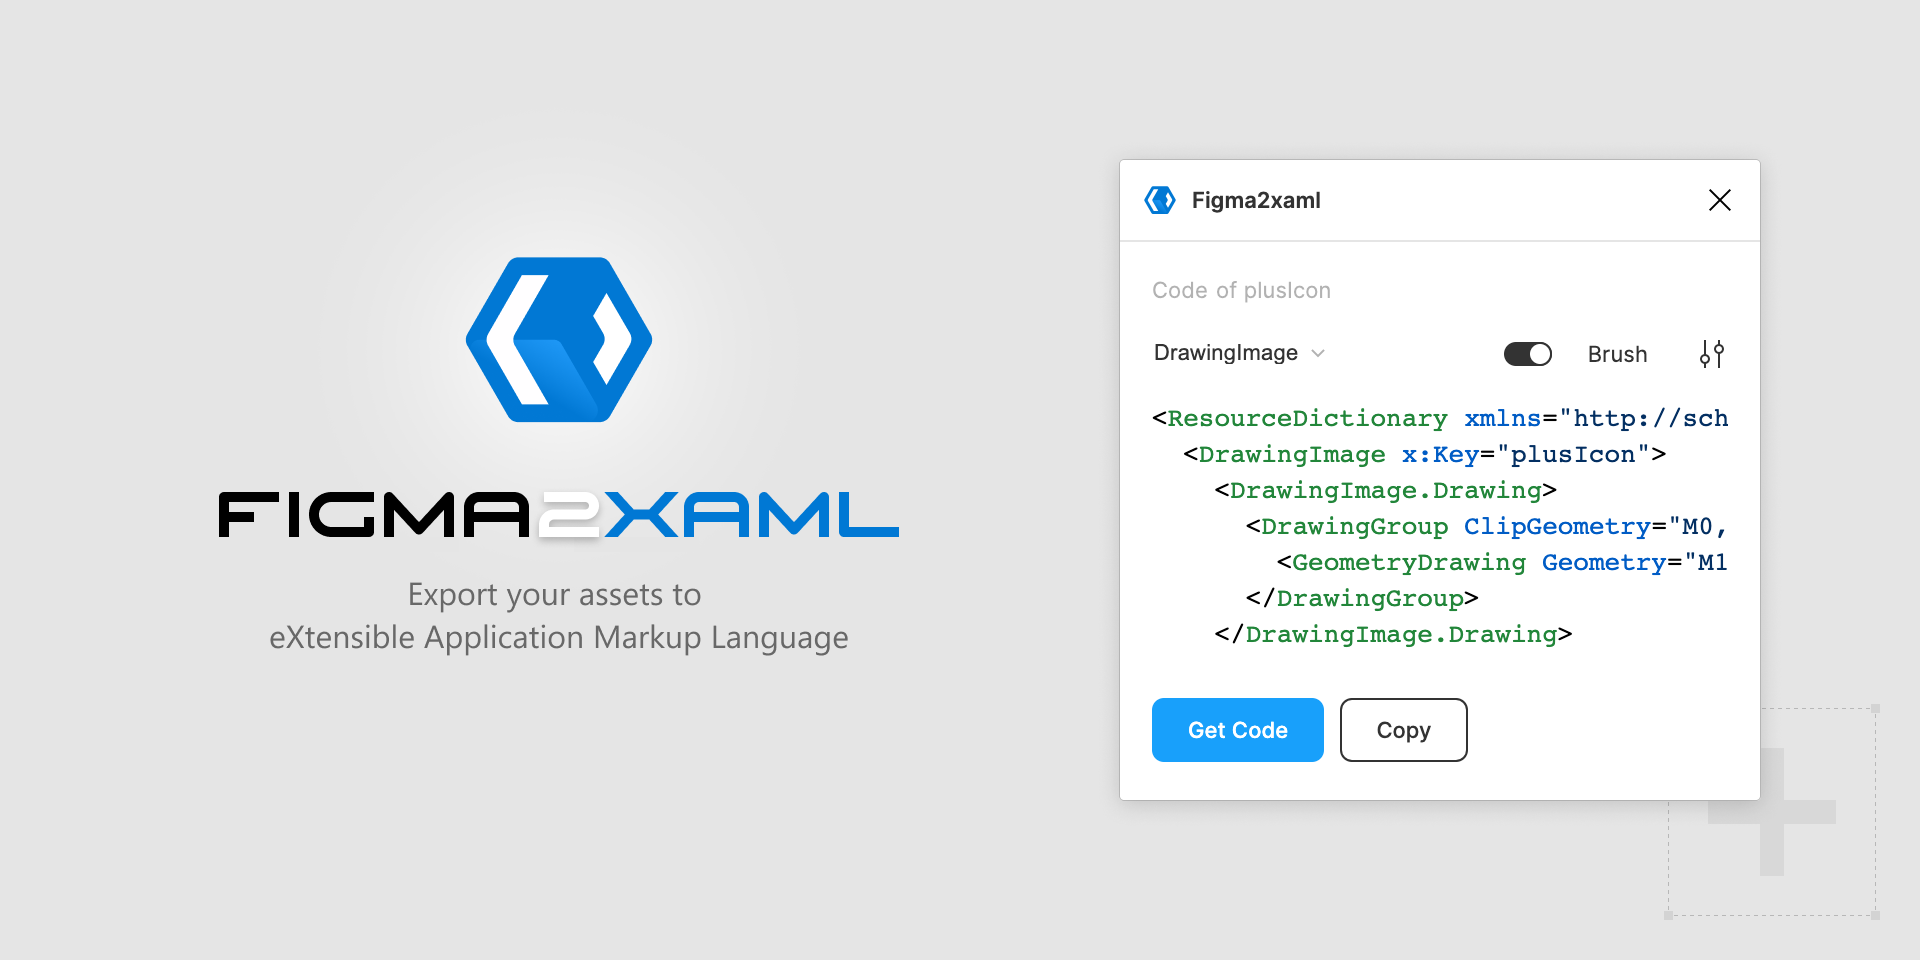
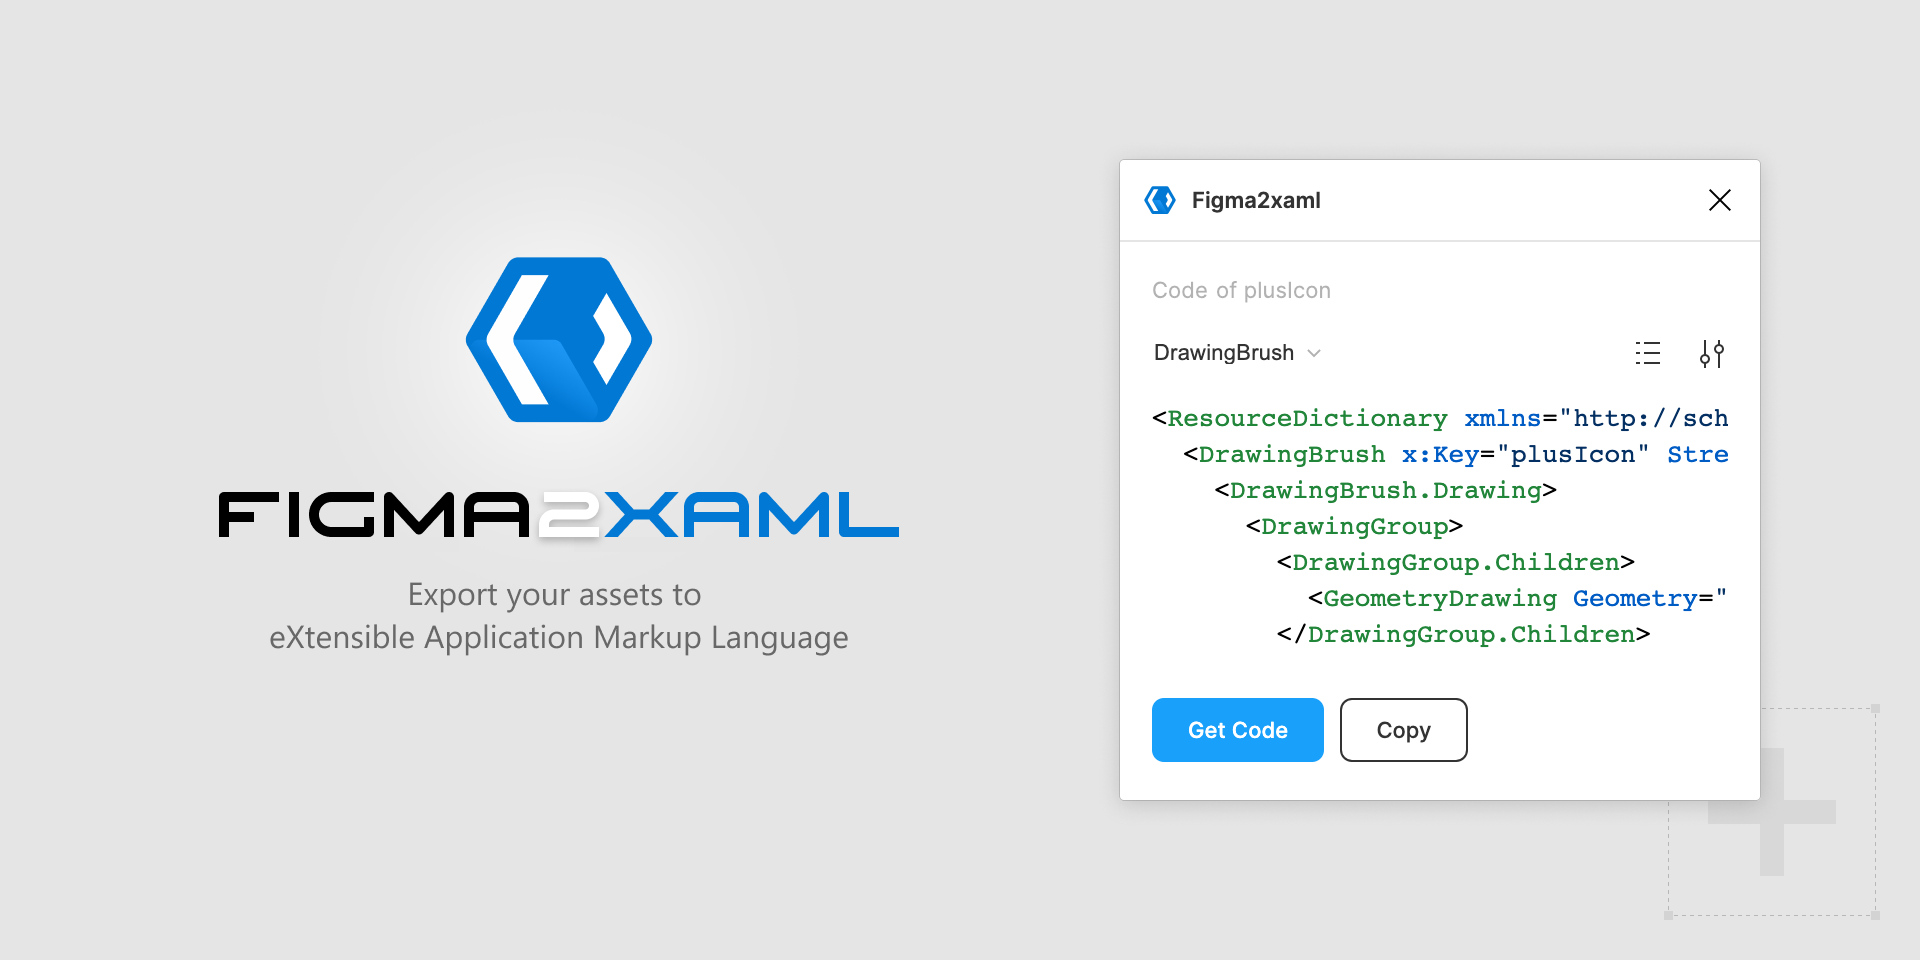
Filters added and moved to separate tab

diff --git a/src/PluginUI.svelte b/src/PluginUI.svelte
@@ -17,7 +17,7 @@
     import { setClipboard, selectText } from './utils/clipboard';
 
     // import some components
-    import { Button, Label, SelectMenu, Switch, Icon, IconAdjust, IconButton, Textarea } from "figma-plugin-ds-svelte";
+    import { Button, Label, SelectMenu, Switch, Icon, IconAdjust, IconListDetailed, IconButton, Textarea } from "figma-plugin-ds-svelte";
 
     // import and register library for highlighting code
     import hljs from 'highlight.js/lib/core';
@@ -55,7 +55,68 @@
             showFilter: true,
             rules: initCanvasRules
         }
-    ];    
+    ];
+
+    let filterStore = [
+        { 
+            label: 'Brush', 
+            show: true,
+            replacements: [
+                {
+                    rules: [2,3],
+                    find: />\n.+?<GeometryDrawing\.(.|\n)*?<\/GeometryDrawing>/g,
+                    replace: '/>'
+                },
+                {
+                    rules: [2,3],
+                    find: / Brush=".+?"/g,
+                    replace: ''
+                },
+                {
+                    rules: [4],
+                    find: / Fill=".+?"/g,
+                    replace: ''
+                },
+                {
+                    rules: [4],
+                    find: / Stroke.*?=".+?"/g,
+                    replace: ''
+                },
+                {
+                    rules: [4],
+                    find: />\n.+?<Path\.(.|\n)*?<\/Path>/g,
+                    replace: '/>'
+                }
+            ]
+        },
+        { 
+            label: 'ResourceDictionary', 
+            show: true,
+            replacements: [
+                {
+                    rules: [1,2,3,4],
+                    find: /\n\s\s/g,
+                    replace: '\n'
+                },
+                {
+                    rules: [1,2,3,4],
+                    find: /<\/?ResourceDictionary.*>\n?/g,
+                    replace: ''
+                }
+            ]
+        },
+        { 
+            label: 'Key', 
+            show: true,
+            replacements: [
+                {
+                    rules: [1,2,3,4],
+                    find: / x:Key.*?=".+?"/g,
+                    replace: ''
+                }
+            ]
+        }
+    ]
 
     let menuItems,
         newSource = '',
@@ -70,6 +131,7 @@
         currentMode = {id: 1},
         pastMode = currentMode.id,
         tweakMode = false,
+        filterMode = false,
         isEmpty = true,
         error = 0, // 0: no error; 1: svg problem; 2: xslt problem
         errorMessage;
@@ -80,8 +142,8 @@
     $: disabled = newSource == '';
 
     // For debugging in browser
-    // import sourceCode from "./img/test.svg";
-    // newSource = sourceCode;
+    import sourceCode from "./img/test.svg";
+    newSource = sourceCode;
 
     // Callback function gets executed once the component has mounted
     onMount(() => {
@@ -137,6 +199,7 @@
         // Get result
         preResult = transformXML(sourceHolder, xsltRule);
 
+        // Validate result
         if (preResult[0] != '<') {
             error = 2;
             errorMessage = preResult;
@@ -144,20 +207,18 @@
         }
         // Сlean result
         preResult = preResult.replaceAll(/ xmlns=""/g, '');
-        if (!isBrush) {
-            switch (currentMode.id) {
-                case 2:
-                case 3:
-                    preResult = preResult.replaceAll(/>\n.+?<GeometryDrawing\.(.|\n)*?<\/GeometryDrawing>/g, '/>');
-                    preResult = preResult.replaceAll(/ Brush=".+?"/g, '');
-                    break;
-                case 4:
-                    preResult = preResult.replaceAll(/ Fill=".+?"/g, '');
-                    preResult = preResult.replaceAll(/ Stroke.*?=".+?"/g, '');
-                    preResult = preResult.replaceAll(/>\n.+?<Path\.(.|\n)*?<\/Path>/g, '/>');
-                    break;
+
+        // Apply approved filters
+        for (const item of filterStore) {
+            if(!item.show) {
+                for (const action of item.replacements) {
+                    if (action.rules.includes(currentMode.id)) {
+                        preResult = preResult.replaceAll(action.find, action.replace);
+                    }
+                }
             }
         }
+
         // Highlight result
         preResult = getHighlightedCode(preResult);
         resultView = preResult;
@@ -202,7 +263,20 @@
      */
     function underHood() {
         tweakMode = !tweakMode;
+        filterMode = false;
         if (!tweakMode) {
+            saveChanges();
+            showСode();
+        }
+    }
+
+    /**
+     * Toggle filter mode
+     */
+    function showFilter() {
+        filterMode = !filterMode;
+        if (tweakMode) {
+            tweakMode = false;
             saveChanges();
             showСode();
         }
@@ -271,20 +345,11 @@
                 bind:value={currentMode}
                 class="mb-xxsmall"/>
         </div>
-        {#if rulesStore[currentMode.id].showFilter}
-            <div >
-                <Switch 
-                    on:change={showСode} 
-                    value="value" 
-                    bind:checked={isBrush}>
-                    Brush
-                </Switch>
-            </div>
-        {/if}
         {#if (currentMode.id != 0) }
-        <div>
-            <IconButton on:click={underHood} iconName={IconAdjust} bind:selected={tweakMode} />
-        </div>
+            <div class="flex row">
+                <IconButton on:click={showFilter} iconName={IconListDetailed} bind:selected={filterMode} />
+                <IconButton on:click={underHood} iconName={IconAdjust} bind:selected={tweakMode} />
+            </div>
         {/if}
     </div>
 
@@ -295,6 +360,32 @@
             <Button on:click={reset} variant="secondary">Reset</Button>
             <Label>Changes will also be lost <br>after closing the plugin</Label>
         </div>
+    {:else if (filterMode && currentMode.id != 0)}
+        <div >
+            <Switch 
+                on:change={showСode} 
+                value="value" 
+                bind:checked={filterStore[0].show}>
+                {filterStore[0].label}
+            </Switch>
+        </div>
+        <div >
+            <Switch 
+                on:change={showСode} 
+                value="value" 
+                bind:checked={filterStore[1].show}>
+                {filterStore[1].label}
+            </Switch>
+        </div>
+        <div >
+            <Switch 
+                on:change={showСode} 
+                value="value" 
+                bind:checked={filterStore[2].show}>
+                {filterStore[2].label}
+            </Switch>
+        </div>
+        <Label>Disabled items will not appear in xaml</Label>
     {:else}
 
         {#if isEmpty }
